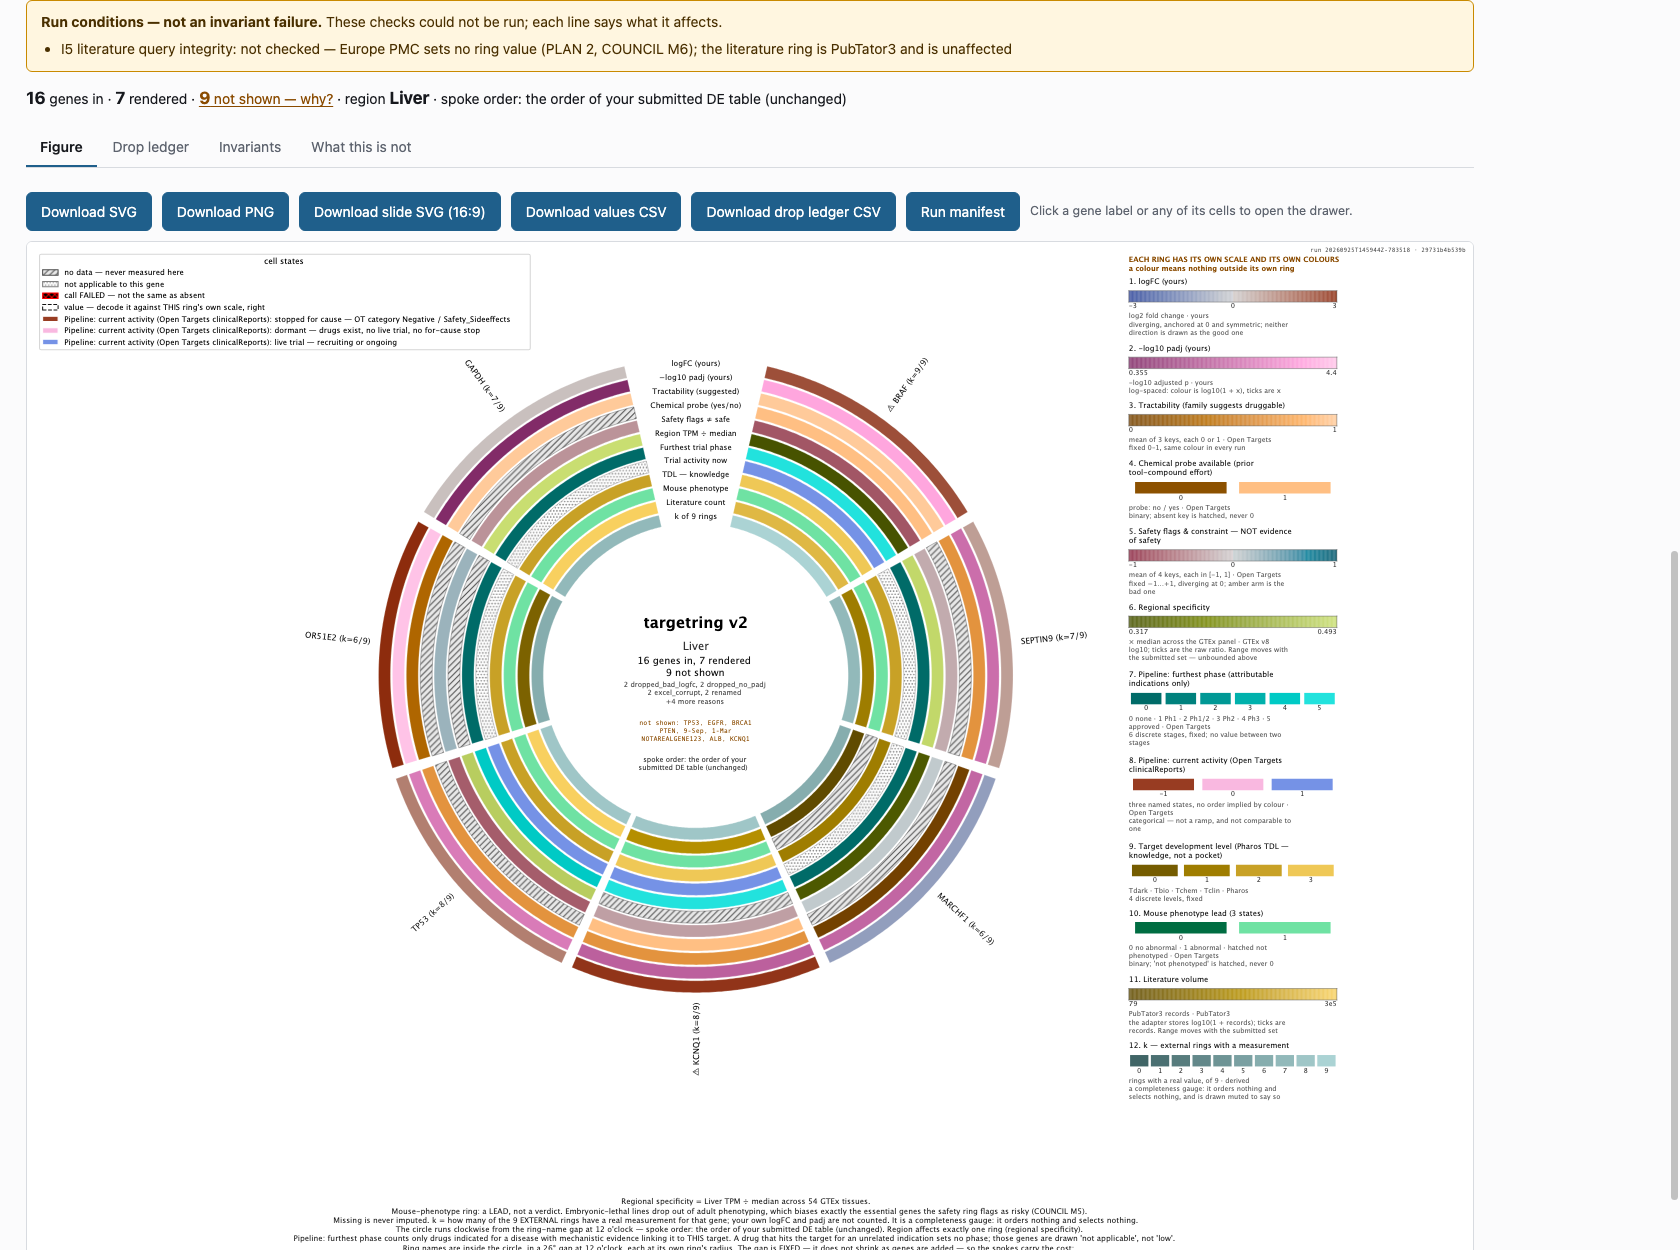
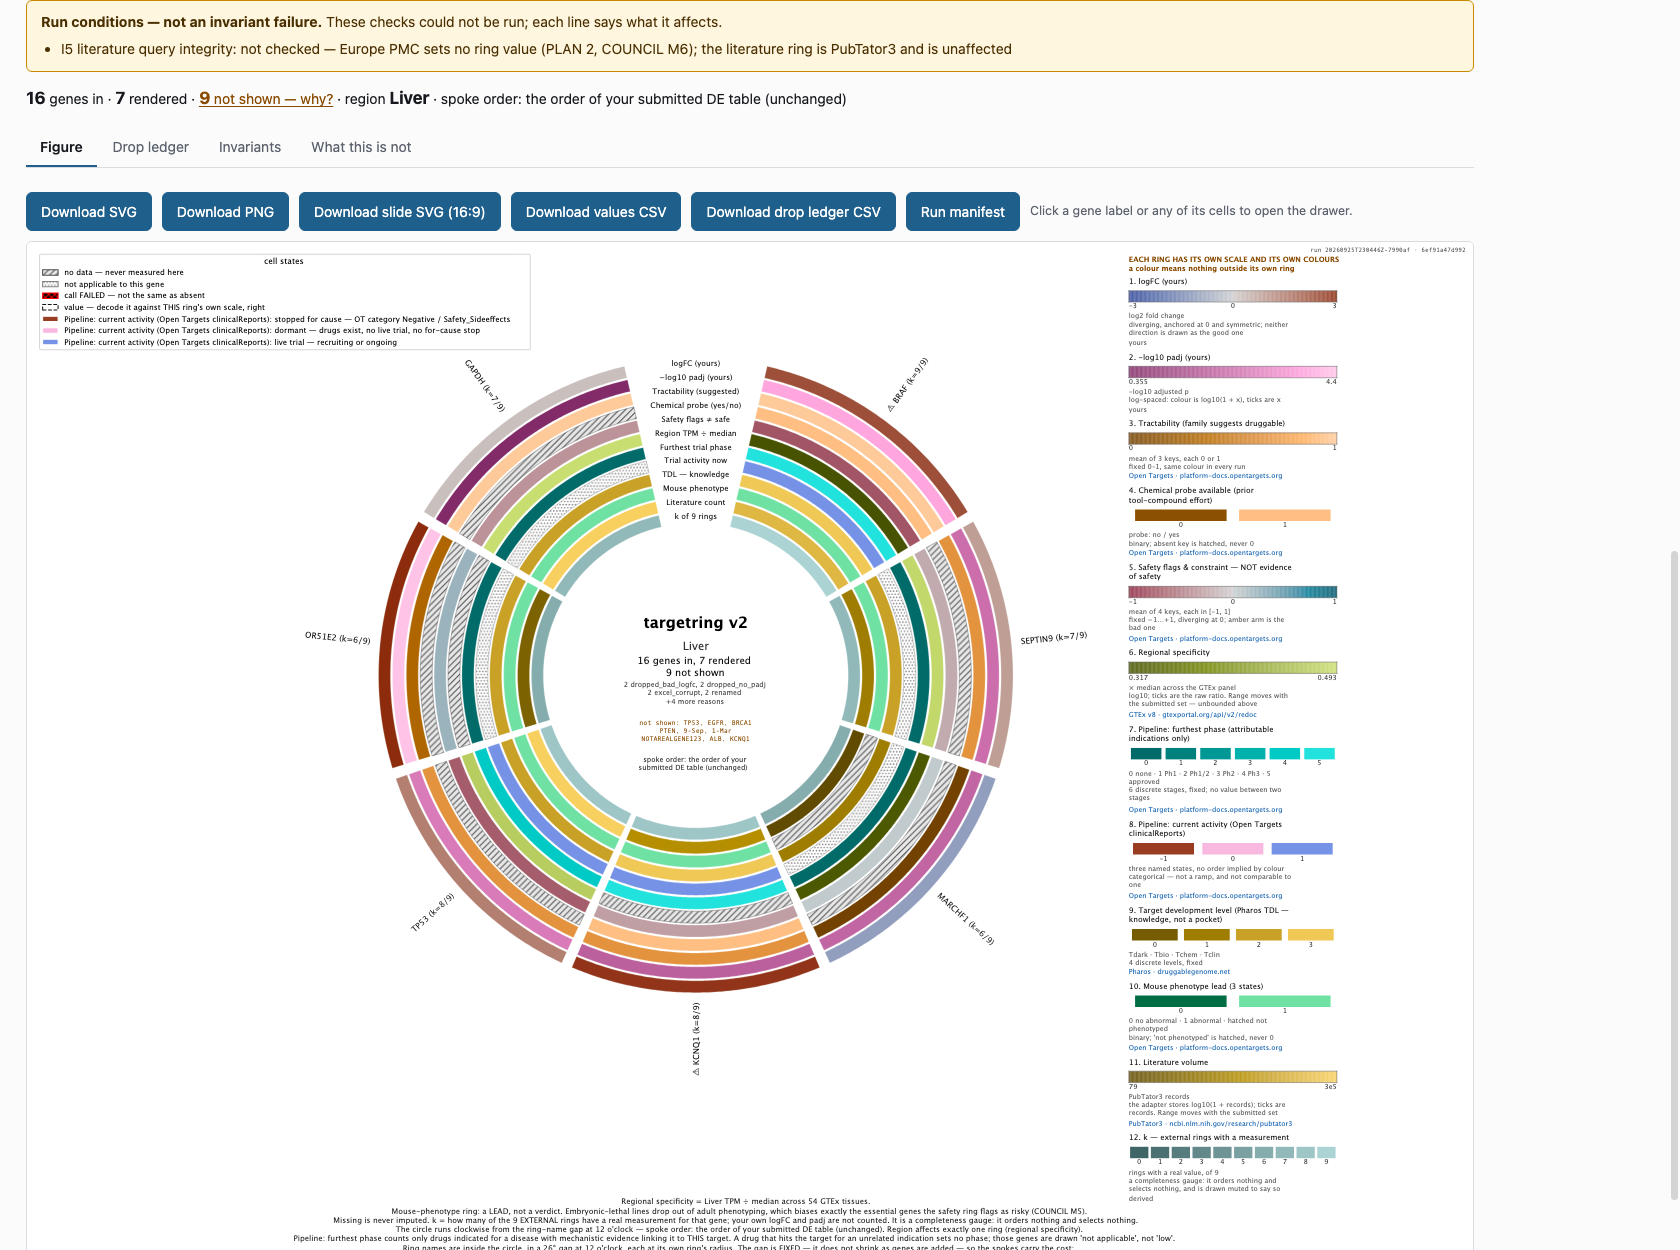
v2.8 item 2: live verification and the retaken screenshots
scripts/verify_live_links.py drives the running app and checks what a file test
cannot: nine anchors in the *inlined* DOM, each the child of its own
ringsource|<key> group, each reachable by a click (144/144 probe points -- the
first version probed one point at the box centre and read 0/9, because SVG text
hits only on painted pixels and the figure sits outside the viewport until it is
scrolled), and one link actually followed: clicking the TDL source line opens
druggablegenome.net/IDGProteinFamilies, which defines Tclin/Tchem/Tbio/Tdark.

scripts/source_link_crop.py crops the column at 1:1 from a run's own SVG group
positions, because 6.6 pt type is unreadable in a full-figure screenshot.

scripts/v28_matrix.py: 7/7 on all seven cold runs.

Screenshots retaken after restarting the dev server on this code.
10-ring-names-in-the-wedge.png came back byte-identical, which is the evidence
that this change is confined to the scale column.

Changed region(s): [[0.65, 0.2808, 0.8048, 0.9672]]

diff --git a/scripts/verify_live_links.py b/scripts/verify_live_links.py
@@ -1,0 +1,149 @@
+"""Prove the legend's source links are followable in the running app (v2.8).
+
+`tests/test_presentation.py` asserts the anchors are in `figure.svg`. That is not
+the same claim as "a reader can click it": `app.js` inlines the SVG into the
+page, and an `<a xlink:href>` inside inline SVG is only useful if the browser
+treats it as a link and nothing is drawn over it. v2.7.1 made the same
+distinction for the tooltips and checked the live DOM rather than the file only.
+
+So this does three things a file test cannot:
+
+  1. counts the anchors in the *inlined* DOM and checks each one is the child of
+     a `ringsource|<key>` group -- i.e. it wraps a source line and not something
+     else;
+  2. hit-tests each one, because an anchor with a figure element painted over it
+     is not clickable and would pass every check that only reads markup. SVG
+     text hits only on *painted* pixels, so a single `elementFromPoint` at the
+     box centre lands between two characters and reports a false negative -- it
+     did, on all nine, while the click below worked. The check samples a grid
+     across the anchor's box and requires a run of hits;
+  3. actually clicks one and waits for the tab it opens, then asserts the URL
+     and closes it. One is enough to prove the mechanism; nine would be nine
+     page loads against other people's servers for no more information.
+
+Connects over CDP to the Chrome on 127.0.0.1:18800, the same way
+`scripts/screenshots.py` does and for the same reason (see its docstring).
+
+Run: .venv/bin/python scripts/verify_live_links.py
+"""
+
+from __future__ import annotations
+
+import sys
+from pathlib import Path
+
+from playwright.sync_api import sync_playwright
+
+ROOT = Path(__file__).resolve().parent.parent
+sys.path.insert(0, str(ROOT))
+
+from scripts.screenshots import APP, CDP, COUNCIL_LIST, _go  # noqa: E402
+from targetring import sources  # noqa: E402
+
+XLINK = "http://www.w3.org/1999/xlink"
+
+
+def main() -> int:
+    expected = {k: d.url for k, d in sources.RING_SOURCE_DOCS.items()}
+    failures: list[str] = []
+
+    with sync_playwright() as p:
+        browser = p.chromium.connect_over_cdp(CDP)
+        ctx = browser.contexts[0] if browser.contexts else browser.new_context()
+        page = ctx.new_page()
+        page.set_viewport_size({"width": 1680, "height": 1250})
+        page.goto(APP, wait_until="networkidle")
+        page.fill("#table", COUNCIL_LIST)
+        _go(page, "Liver")
+
+        found = page.evaluate(
+            """() => {
+              const out = [];
+              document.querySelectorAll('#figure a').forEach((a) => {
+                const g = a.closest('g[id^="ringsource|"]');
+                // `elementFromPoint` is viewport-relative and returns null for a
+                // point off screen, and the figure is much taller than the
+                // viewport -- without this every probe read as "not the link".
+                a.scrollIntoView({block: 'center', inline: 'center'});
+                const box = a.getBoundingClientRect();
+                let hits = 0, probes = 0, blockedBy = null;
+                for (let fx = 0.04; fx < 1; fx += 0.02) {
+                  for (let fy = 0.25; fy <= 0.75; fy += 0.25) {
+                    probes++;
+                    const el = document.elementFromPoint(
+                      box.left + box.width * fx, box.top + box.height * fy);
+                    if (el && (el === a || a.contains(el))) hits++;
+                    else if (!blockedBy)
+                      blockedBy = el ? el.tagName + (el.id ? '#' + el.id : '')
+                                     : 'null (off screen?)';
+                  }
+                }
+                out.push({
+                  ring: g ? g.id.split('|')[1] : null,
+                  href: a.getAttribute('xlink:href') || a.getAttribute('href'),
+                  target: a.getAttribute('target'),
+                  width: Math.round(box.width), height: Math.round(box.height),
+                  hits, probes, blocked_by: blockedBy,
+                });
+              });
+              return out;
+            }"""
+        )
+        print(f"anchors in the inlined DOM: {len(found)} (expected {len(expected)})")
+        by_ring = {}
+        for row in found:
+            print(f"  {str(row['ring']):<22} clickable at {row['hits']}/{row['probes']} "
+                  f"probes  {row['width']}x{row['height']}px  target={row['target']}  "
+                  f"{row['href']}")
+            if row["ring"] is None:
+                failures.append(f"an anchor is not inside a ringsource group: {row['href']}")
+                continue
+            by_ring[row["ring"]] = row
+            # A whole source line reachable at fewer than a fifth of the probes
+            # is not a link a reader can hit; the glyphs themselves account for
+            # roughly half of any run of probes across a line of type.
+            if row["hits"] * 5 < row["probes"]:
+                failures.append(
+                    f"{row['ring']}: reachable at only {row['hits']}/{row['probes']} "
+                    f"points; first obstruction {row['blocked_by']}")
+            if row["target"] != "_blank":
+                failures.append(f"{row['ring']}: target is {row['target']!r}")
+
+        if set(by_ring) != set(expected):
+            failures.append(f"rings with a link: {sorted(by_ring)} != {sorted(expected)}")
+        for ring, url in expected.items():
+            got = (by_ring.get(ring) or {}).get("href")
+            if got != url:
+                failures.append(f"{ring}: href is {got!r}, registry says {url!r}")
+
+        # The real proof: follow one.
+        ring = "tdl"
+        print(f"\nclicking the {ring} source line...")
+        loc = page.locator(f'#figure g[id="ringsource|{ring}"] a')
+        with ctx.expect_page() as popup:
+            loc.click()
+        new = popup.value
+        new.wait_for_load_state("domcontentloaded", timeout=60_000)
+        print(f"  opened: {new.url}")
+        if not new.url.startswith(expected[ring]):
+            failures.append(f"click on {ring} opened {new.url}, expected {expected[ring]}")
+        body = new.inner_text("body")[:400000]
+        for level in ("Tclin", "Tchem", "Tbio", "Tdark"):
+            if level not in body:
+                failures.append(f"the {ring} page does not define {level}")
+        print(f"  page defines Tclin/Tchem/Tbio/Tdark: "
+              f"{all(l in body for l in ('Tclin', 'Tchem', 'Tbio', 'Tdark'))}")
+        new.close()
+        page.close()
+
+    if failures:
+        print("\nFAILURES:")
+        for f in failures:
+            print(f"  - {f}")
+        return 1
+    print("\nall live link checks pass")
+    return 0
+
+
+if __name__ == "__main__":
+    sys.exit(main())

diff --git a/scripts/source_link_crop.py b/scripts/source_link_crop.py
@@ -1,0 +1,77 @@
+"""The scale column's source lines, cropped out of a real run at 1:1 (v2.8).
+
+The claim this makes checkable by eye is the one that matters for the exported
+PNG: each ring's source is printed with a *domain a reader can type*, in a
+colour that reads as a link, and the link text did not cost the source name its
+place. The column is 6.6 pt type on a 19.5 in canvas, so a full-figure
+screenshot cannot show whether any of that is legible -- this crops the
+uncompressed pixels.
+
+The crop is located from the `ringsource|<key>` groups' own positions in the
+SVG, not from pixel coordinates, so it follows the column if the layout moves
+again -- the same reason `wedge_crop.py` locates its crop from cell ids.
+
+Run: PYTHONPATH=. .venv/bin/python scripts/source_link_crop.py \\
+         runs/V28-COUNCIL-COLD docs/screenshots/11-source-links-in-the-legend.png
+"""
+
+from __future__ import annotations
+
+import sys
+import xml.etree.ElementTree as ET
+from pathlib import Path
+
+from PIL import Image
+
+sys.path.insert(0, str(Path(__file__).resolve().parent.parent))
+
+from targetring.figure import AUDIT  # noqa: E402
+
+NS = "{http://www.w3.org/2000/svg}"
+
+
+def _source_line_extent(svg: Path) -> tuple[float, float, float]:
+    """Left x, first baseline y and last baseline y of the source lines.
+
+    `TestExportRemainsEditable` pins the font type so that text stays text, so
+    each source line is one `<text x= y=>` and these three numbers come straight
+    off it. The right edge is not in the markup -- a `<text>` declares no width
+    -- so the caller takes it from the layout's own column, which is exact and
+    moves when the layout does.
+    """
+    root = ET.parse(svg).getroot()
+    xs: list[float] = []
+    ys: list[float] = []
+    for el in root.iter():
+        if not (el.get("id") or "").startswith("ringsource|"):
+            continue
+        for t in el.iter(f"{NS}text"):
+            xs.append(float(t.get("x")))
+            ys.append(float(t.get("y")))
+    if not xs:
+        raise SystemExit(f"no ringsource groups in {svg}")
+    return min(xs), min(ys), max(ys)
+
+
+def main() -> None:
+    run, out = Path(sys.argv[1]), Path(sys.argv[2])
+    svg, png = run / "figure.svg", run / "figure.png"
+    root = ET.parse(svg).getroot()
+    _, _, vw, vh = (float(v) for v in root.get("viewBox").split())
+    img = Image.open(png)
+    sx, sy = img.width / vw, img.height / vh
+    x0, y_first, y_last = _source_line_extent(svg)
+    # Right edge from the layout's own scale column, since a <text> declares no
+    # width. Up from the first source line far enough to catch the ring title
+    # and ticks it belongs to, because a column of source lines on its own would
+    # not show that each is attached to the right ring.
+    x1 = (AUDIT.scale_box[0] + AUDIT.scale_box[2]) * vw
+    pad_x, pad_top, pad_bottom = 6.0, 34.0, 8.0
+    box = (max(0, int((x0 - pad_x) * sx)), max(0, int((y_first - pad_top) * sy)),
+           min(img.width, int((x1 + pad_x) * sx)),
+           min(img.height, int((y_last + pad_bottom) * sy)))
+    img.crop(box).save(out)
+    print(f"wrote {out} ({box[2] - box[0]}x{box[3] - box[1]} px from {png})")
+
+
+main()

diff --git a/scripts/v28_matrix.py b/scripts/v28_matrix.py
@@ -1,0 +1,67 @@
+"""The v2.8 clean cold council run, then all six fixture x region combinations.
+
+Writes one line per combination and a JSON blob per run; nothing is deleted and
+the repo cache is not touched (each run gets its own cache directory).
+"""
+from __future__ import annotations
+
+import asyncio
+import json
+import sys
+from pathlib import Path
+
+ROOT = Path(__file__).resolve().parent.parent
+sys.path.insert(0, str(ROOT))
+
+from scripts.screenshots import COUNCIL_LIST  # noqa: E402
+from targetring.cache import Cache  # noqa: E402
+from targetring.run import run_analysis  # noqa: E402
+
+FIXTURES = {
+    "de_realistic.csv": (ROOT / "fixtures" / "de_realistic.csv").read_text(),
+    "de_broken.csv": (ROOT / "fixtures" / "de_broken.csv").read_text(),
+    "council-liver": COUNCIL_LIST,
+}
+
+
+async def one(name: str, table: str, region: str, run_id: str, cache_root: Path,
+              **kw):
+    res = await run_analysis(table=table, region=region, run_id=run_id,
+                             cache=Cache(root=cache_root), run_regression=True, **kw)
+    m = res.manifest
+    inv = {i["id"]: i["outcome"] for i in m.invariants}
+    n_pass = sum(1 for v in inv.values() if v == "PASS")
+    print(f"{name:20s} {region:6s} {m.input_row_count:2d} in / {m.rendered_count:2d} "
+          f"rendered / {m.ledger_count} ledgered · {n_pass}/7 PASS · "
+          f"{m.timings.get('total_s')}s")
+    return {"fixture": name, "region": region, "invariants": inv,
+            "ordering": m.ordering, "filters": m.filters,
+            "filter_counts": m.filter_counts, "timings": m.timings,
+            "conditions": m.run_conditions}
+
+
+async def main() -> None:
+    out = []
+    # The clean cold council run, on its own empty cache.
+    cold = Path("/tmp/tr-v28-council-cold")
+    if cold.exists():
+        raise SystemExit(f"{cold} exists; a warm cache is not a cold run")
+    out.append(await one("council-liver", COUNCIL_LIST, "Liver",
+                         "V28-COUNCIL-COLD", cold))
+    # The matrix, sharing one cache after the cold run above.
+    warm = Path("/tmp/tr-v28-matrix")
+    for name, table in FIXTURES.items():
+        for region in ("Liver", "Lung"):
+            if name == "council-liver" and region == "Liver":
+                continue
+            out.append(await one(name, table, region,
+                                 f"V28-{name.split('.')[0]}-{region}", warm))
+    # v2.5 item 2: one combination re-run with filters active, so the matrix
+    # exercises the filtered path as well as the unfiltered one.
+    out.append(await one("de_realistic.csv (filtered)", FIXTURES["de_realistic.csv"],
+                         "Liver", "V28-FILTERED", warm,
+                         filters="literature >= 2\nregional_specificity >= 0.5"))
+    (ROOT / "logs" / "v28-matrix.json").write_text(json.dumps(out, indent=1))
+
+
+asyncio.run(main())
